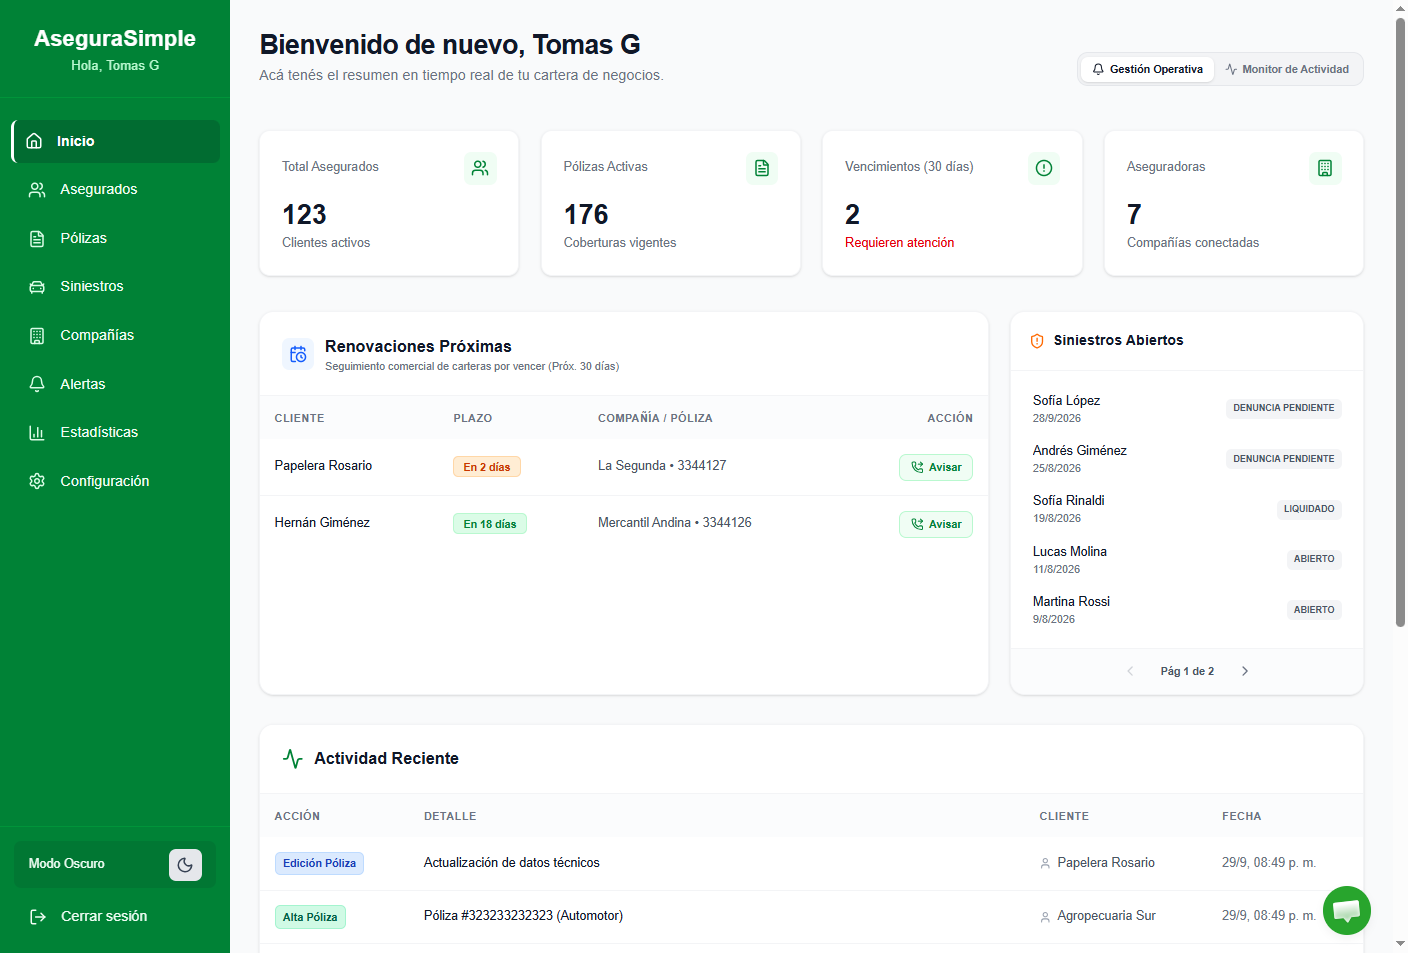
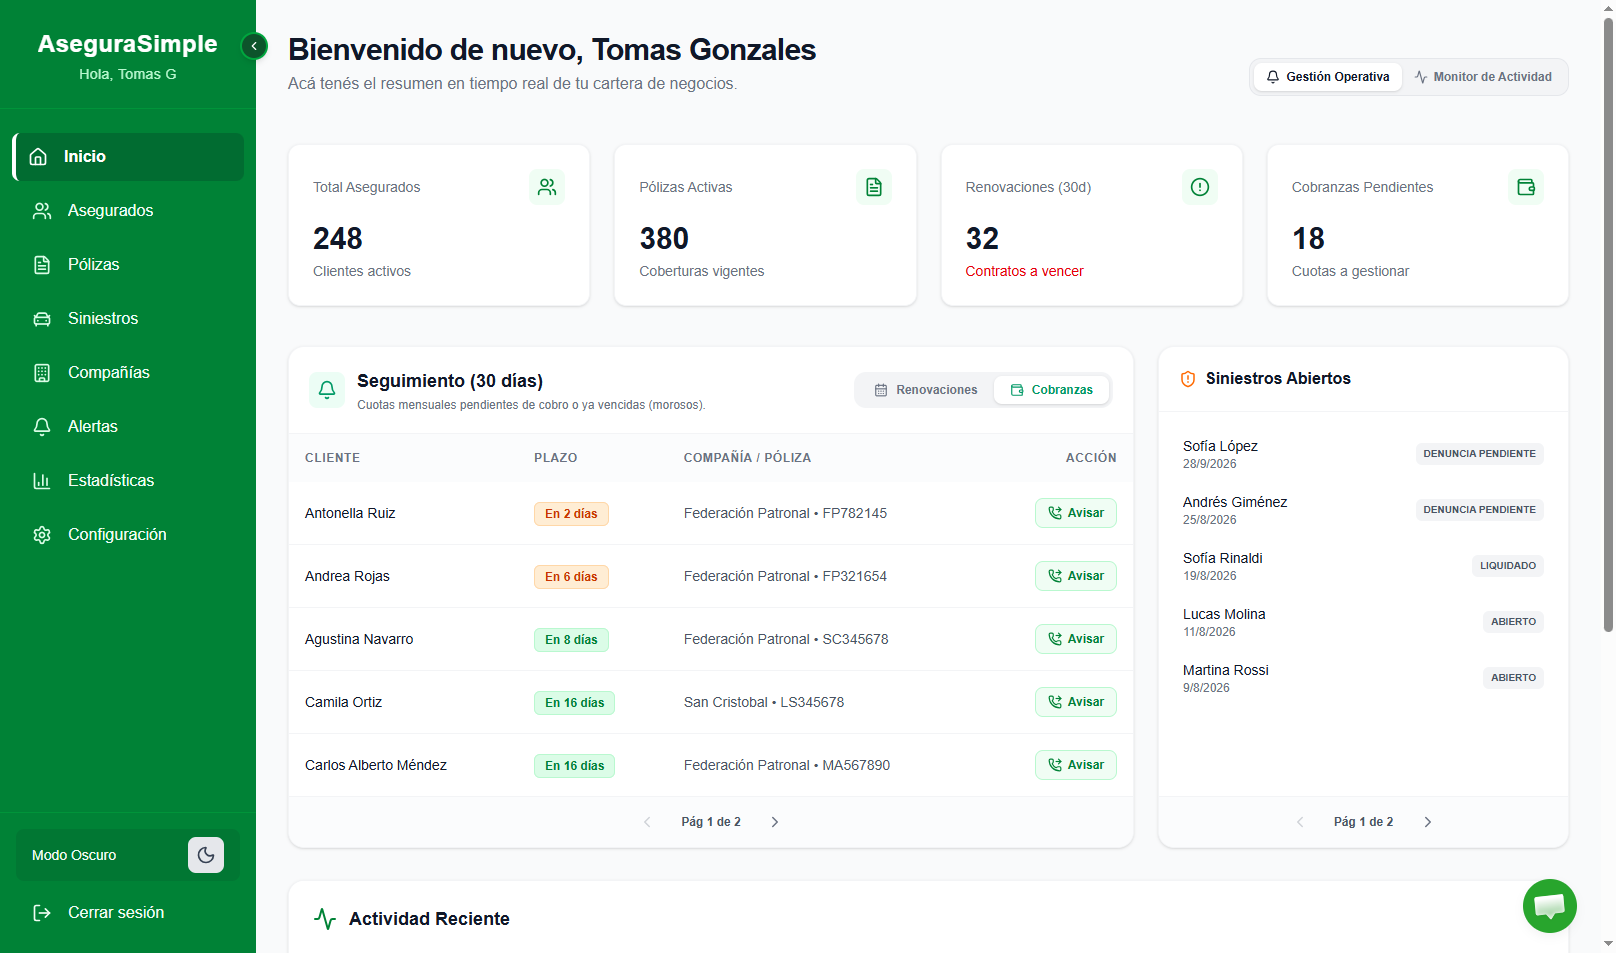
fix(landing): actualizacion de landing page con nueva funcion

diff --git a/frontend/components/landing/Features.tsx b/frontend/components/landing/Features.tsx
@@ -1,8 +1,7 @@
 "use client";
 
 import { motion } from 'framer-motion';
-import { CalendarDays, MessageCircle, BarChart3, Mail, FileText } from 'lucide-react';
-// 🔥 IMPORTAMOS EL NUEVO COMPONENTE
+import { CalendarDays, MessageCircle, BarChart3, Mail, FileText, Wallet } from 'lucide-react';
 import ZoomableImage from '@/components/ui/ZoomableImage';
 
 export default function Features() {
@@ -21,16 +20,64 @@ export default function Features() {
             Todo lo que necesitás para escalar tu cartera de seguros
           </h2>
           <p className="text-xl text-gray-600 max-w-2xl mx-auto">
-            Herramientas diseñadas específicamente para que los productores de seguros ahorren tiempo y aumenten sus renovaciones.
+            Herramientas diseñadas específicamente para que los productores de seguros ahorren tiempo, cobren más rápido y aumenten sus renovaciones.
           </p>
         </motion.div>
 
         <div className="space-y-24">
           
-          {/* Feature 1: Calendario */}
+          {/* 🔥 FEATURE 1 (NUEVO): REFACTURACIÓN (Texto Izquierda, Imagen Derecha) */}
           <div className="flex flex-col lg:flex-row items-center gap-12 lg:gap-20">
             <motion.div 
               initial={{ opacity: 0, x: -50 }}
+              whileInView={{ opacity: 1, x: 0 }}
+              viewport={{ once: true }}
+              transition={{ duration: 0.6 }}
+              className="lg:w-1/2"
+            >
+              <div className="inline-flex items-center gap-2 px-3 py-1 rounded-full bg-emerald-100 text-emerald-800 font-bold text-[10px] mb-5 uppercase tracking-widest shadow-sm">
+                ⭐ Función Destacada
+              </div>
+              <div className="w-14 h-14 bg-emerald-100 text-emerald-600 rounded-2xl flex items-center justify-center mb-6 shadow-sm">
+                <Wallet size={28} />
+              </div>
+              <h3 className="text-3xl font-bold text-gray-900 mb-4">
+                Módulo de Refacturación y Cobranzas
+              </h3>
+              <p className="text-lg text-gray-600 mb-6 leading-relaxed">
+                Separamos la gestión de cobranzas de tus renovaciones para que no se te escape ni un pago. Llevá el control exacto de las cuotas mensuales de tu cartera y detectá la mora al instante.
+              </p>
+              <ul className="space-y-3">
+                <li className="flex items-center gap-3 text-gray-700 font-medium">
+                  <div className="w-2 h-2 rounded-full bg-emerald-500"></div> Monitoreo automático de morosos en tiempo real.
+                </li>
+                <li className="flex items-center gap-3 text-gray-700 font-medium">
+                  <div className="w-2 h-2 rounded-full bg-emerald-500"></div> Reclamos de deuda por WhatsApp con 1 clic.
+                </li>
+              </ul>
+            </motion.div>
+            
+            <motion.div 
+              initial={{ opacity: 0, scale: 0.9 }}
+              whileInView={{ opacity: 1, scale: 1 }}
+              viewport={{ once: true }}
+              transition={{ duration: 0.6 }}
+              className="lg:w-1/2 relative w-full"
+            >
+              <div className="absolute inset-0 bg-emerald-50 rounded-[2rem] transform translate-x-4 translate-y-4 -z-10"></div>
+              {/* Sugerencia: Captura de la pestaña de Cobranzas en el Centro de Alertas */}
+              <ZoomableImage 
+                src="/cobranzas.png" 
+                alt="Módulo de Refacturación AseguraSimple" 
+                className="rounded-2xl shadow-2xl border border-gray-100 w-full object-cover" 
+              />
+            </motion.div>
+          </div>
+
+          {/* FEATURE 2: CALENDARIO (Texto Derecha, Imagen Izquierda) */}
+          <div className="flex flex-col lg:flex-row-reverse items-center gap-12 lg:gap-20">
+            <motion.div 
+              initial={{ opacity: 0, x: 50 }}
               whileInView={{ opacity: 1, x: 0 }}
               viewport={{ once: true }}
               transition={{ duration: 0.6 }}
@@ -43,14 +90,14 @@ export default function Features() {
                 Calendario inteligente de alertas
               </h3>
               <p className="text-lg text-gray-600 mb-6 leading-relaxed">
-                Visualizá tus próximos vencimientos con nuestro sistema de semáforo. Navegá por mes o agenda y detectá al instante qué pólizas están vencidas (rojo), cuáles son críticas (naranja) y cuáles están próximas a vencer (verde).
+                Visualizá tus próximos vencimientos con nuestro sistema de semáforo. Navegá por mes o agenda y detectá al instante qué pólizas de renovación están vencidas (rojo), críticas (naranja) o próximas (verde).
               </p>
               <ul className="space-y-3">
                 <li className="flex items-center gap-3 text-gray-700 font-medium">
                   <div className="w-2 h-2 rounded-full bg-orange-500"></div> Filtros rápidos por compañía y ramo.
                 </li>
                 <li className="flex items-center gap-3 text-gray-700 font-medium">
-                  <div className="w-2 h-2 rounded-full bg-orange-500"></div> Toda la info de la póliza al pasar el mouse.
+                  <div className="w-2 h-2 rounded-full bg-orange-500"></div> Toda la info del riesgo al pasar el mouse.
                 </li>
               </ul>
             </motion.div>
@@ -62,8 +109,7 @@ export default function Features() {
               transition={{ duration: 0.6 }}
               className="lg:w-1/2 relative w-full"
             >
-              <div className="absolute inset-0 bg-orange-50 rounded-[2rem] transform translate-x-4 translate-y-4 -z-10"></div>
-              {/* 🔥 REEMPLAZO POR COMPONENTE ZOOMABLE */}
+              <div className="absolute inset-0 bg-orange-50 rounded-[2rem] transform -translate-x-4 translate-y-4 -z-10"></div>
               <ZoomableImage 
                 src="/calendario.png" 
                 alt="Calendario de vencimientos de pólizas para PAS" 
@@ -72,10 +118,10 @@ export default function Features() {
             </motion.div>
           </div>
 
-          {/* Feature 2: Estadísticas */}
-          <div className="flex flex-col lg:flex-row-reverse items-center gap-12 lg:gap-20">
+          {/* FEATURE 3: ESTADÍSTICAS (Texto Izquierda, Imagen Derecha) */}
+          <div className="flex flex-col lg:flex-row items-center gap-12 lg:gap-20">
             <motion.div 
-              initial={{ opacity: 0, x: 50 }}
+              initial={{ opacity: 0, x: -50 }}
               whileInView={{ opacity: 1, x: 0 }}
               viewport={{ once: true }}
               transition={{ duration: 0.6 }}
@@ -88,7 +134,7 @@ export default function Features() {
                 Control total de tu negocio en tiempo real
               </h3>
               <p className="text-lg text-gray-600 mb-6 leading-relaxed">
-                Olvidate de las planillas desactualizadas. Tu panel principal te da una radiografía exacta de cuántas pólizas tenés activas, qué vencimientos requieren atención inmediata y cómo se compone tu cartera.
+                Olvidate de las planillas desactualizadas. Tu panel principal te da una radiografía exacta de cuántas pólizas tenés activas, tu dinero en la calle (mora) y cómo se compone tu cartera.
               </p>
               <ul className="space-y-3">
                 <li className="flex items-center gap-3 text-gray-700 font-medium">
@@ -107,8 +153,7 @@ export default function Features() {
               transition={{ duration: 0.6 }}
               className="lg:w-1/2 relative w-full"
             >
-              <div className="absolute inset-0 bg-green-50 rounded-[2rem] transform -translate-x-4 translate-y-4 -z-10"></div>
-              {/* 🔥 REEMPLAZO POR COMPONENTE ZOOMABLE */}
+              <div className="absolute inset-0 bg-green-50 rounded-[2rem] transform translate-x-4 translate-y-4 -z-10"></div>
               <ZoomableImage 
                 src="/estadisticas.png" 
                 alt="Métricas y Estadísticas de AseguraSimple" 
@@ -117,10 +162,10 @@ export default function Features() {
             </motion.div>
           </div>
 
-          {/* Feature 3: Detalle de Póliza */}
-          <div className="flex flex-col lg:flex-row items-center gap-12 lg:gap-20">
+          {/* FEATURE 4: FICHA DE PÓLIZA (Texto Derecha, Imagen Izquierda) */}
+          <div className="flex flex-col lg:flex-row-reverse items-center gap-12 lg:gap-20">
             <motion.div 
-              initial={{ opacity: 0, x: -50 }}
+              initial={{ opacity: 0, x: 50 }}
               whileInView={{ opacity: 1, x: 0 }}
               viewport={{ once: true }}
               transition={{ duration: 0.6 }}
@@ -133,7 +178,7 @@ export default function Features() {
                 Ficha 360º de cada póliza
               </h3>
               <p className="text-lg text-gray-600 mb-6 leading-relaxed">
-                Se acabó buscar PDFs en carpetas perdidas o revisar contactos en el celular. Accedé al detalle completo de cada riesgo, historial de siniestros y documentación digital en una sola pantalla.
+                Se acabó buscar PDFs en carpetas perdidas o revisar contactos en el celular. Accedé al detalle completo de cada riesgo, historial de siniestros, cuotas y documentación digital en una sola pantalla.
               </p>
               <ul className="space-y-3">
                 <li className="flex items-center gap-3 text-gray-700 font-medium">
@@ -152,8 +197,7 @@ export default function Features() {
               transition={{ duration: 0.6 }}
               className="lg:w-1/2 relative w-full"
             >
-              <div className="absolute inset-0 bg-blue-50 rounded-[2rem] transform translate-x-4 translate-y-4 -z-10"></div>
-              {/* 🔥 REEMPLAZO POR COMPONENTE ZOOMABLE */}
+              <div className="absolute inset-0 bg-blue-50 rounded-[2rem] transform -translate-x-4 translate-y-4 -z-10"></div>
               <ZoomableImage 
                 src="/poliza.png" 
                 alt="Detalle de Póliza en AseguraSimple" 
@@ -162,7 +206,7 @@ export default function Features() {
             </motion.div>
           </div>
 
-          {/* Feature 4: Comunicación */}
+          {/* FEATURE 5: COMUNICACIÓN RÁPIDA (Grid inferior de 2 tarjetas) */}
           <motion.div 
             initial={{ opacity: 0, y: 30 }}
             whileInView={{ opacity: 1, y: 0 }}
@@ -183,7 +227,7 @@ export default function Features() {
                 </div>
                 <h4 className="text-2xl font-bold text-gray-900 mb-3">WhatsApp en 1 Clic</h4>
                 <p className="text-gray-600 leading-relaxed">
-                  No pierdas tiempo tipeando. Al presionar el botón, generamos un mensaje pre-armado con el nombre del cliente, la compañía y la fecha exacta de vencimiento, listo para que lo envíes desde tu celular o WhatsApp Web.
+                  No pierdas tiempo tipeando. Al presionar el botón de aviso, generamos un mensaje pre-armado contextualizado (mora o renovación) con los datos del cliente, listo para que lo envíes.
                 </p>
               </div>
               
@@ -191,9 +235,9 @@ export default function Features() {
                 <div className="w-14 h-14 bg-blue-50 rounded-2xl flex items-center justify-center mb-6 group-hover:scale-110 transition-transform">
                   <Mail size={28} className="text-blue-600" />
                 </div>
-                <h4 className="text-2xl font-bold text-gray-900 mb-3">Robot de Correos</h4>
+                <h4 className="text-2xl font-bold text-gray-900 mb-3">Correos Electrónicos Integrados</h4>
                 <p className="text-gray-600 leading-relaxed">
-                  Dejá que el sistema trabaje por vos. AseguraSimple detecta todos los días las pólizas que están por vencer y envía avisos preventivos por correo electrónico a tus clientes de forma 100% automática.
+                  Dejá que el sistema trabaje por vos. Enviá correos corporativos formateados con plantillas HTML profesionales directamente desde la plataforma para avisar vencimientos o saldos deudores.
                 </p>
               </div>
             </div>
